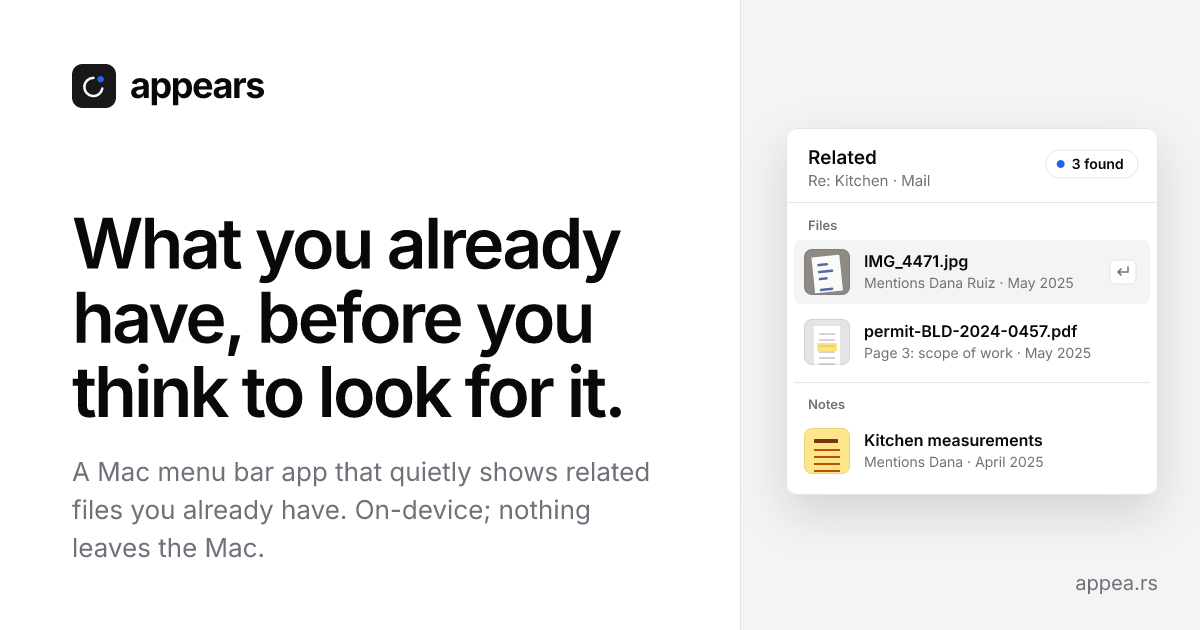
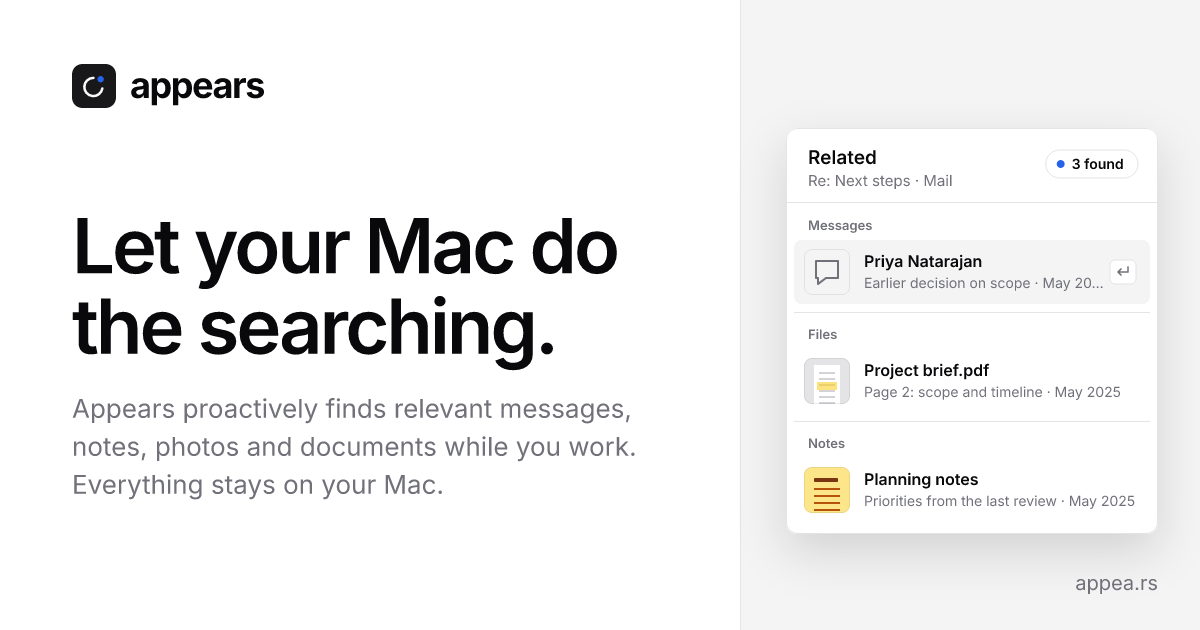
Rewrite landing page around proactive help

diff --git a/web/src/site.ts b/web/src/site.ts
@@ -6,6 +6,8 @@
 // Markdown version uses it as it is, and src/lib/inline.ts turns it into HTML
 // for the page.
 
+import landing from "../../demo/landing.json";
+
 export const SITE = "https://appea.rs";
 export const NAME = "Appears";
 
@@ -21,11 +23,11 @@ export const AUTHOR = {
 
 /** The app's schema.org disambiguatingDescription, also llms.txt's summary. Keep it verbatim. */
 export const SUMMARY =
-  "Open-source Mac menu bar app at appea.rs, made by Colin Armstrong, that notices what you're working on and shows related files you already have, such as old screenshots, photos and PDFs, using an on-device model; nothing leaves the computer.";
+  "Open-source Mac menu bar app at appea.rs, made by Colin Armstrong, that proactively finds messages, notes, photos and documents relevant to what you're working on, using an on-device model; nothing leaves the computer.";
 
-export const TITLE = "Appears: the files you forgot you had, when they matter";
+export const TITLE = "Appears: let your Mac do the searching";
 export const DESCRIPTION =
-  "Appears is an open-source Mac menu bar app that notices what you're working on and quietly shows related files you already have: old screenshots, photos, PDFs. It runs on the Mac, and nothing leaves it.";
+  "Appears proactively finds messages, notes, photos and documents relevant to what you're working on. Everything stays on your Mac.";
 
 export const OPERATING_SYSTEM = "macOS 26 or later";
 export const HARDWARE = "Mac with Apple silicon";
@@ -34,9 +36,9 @@ export const LICENSE_URL = "https://opensource.org/license/mit";
 
 // --- Hero --------------------------------------------------------------------------
 
-export const HEADLINE = "What you already have, before you think to look for it.";
+export const HEADLINE = "Let your Mac do the searching.";
 export const LEDE =
-  "Appears lives in your menu bar and follows along while you work. When you already have something that helps, like an old screenshot, a photo of a quote or a PDF from two years ago, it shows up. No searching, no typing.";
+  "Appears proactively finds messages, notes, photos and documents relevant to what you're working on, so you can keep working without stopping to search. Everything stays on your Mac.";
 /** Where the Download buttons go. The release script puts the latest build here. */
 export const DOWNLOAD_URL = `${SITE}/app.dmg`;
 export const DOWNLOAD_LABEL = "Download for Mac";
@@ -47,76 +49,78 @@ export const REQUIREMENTS = `${NOTE} Needs a ${HARDWARE} running ${OPERATING_SYS
 
 /** Under the hero mock. Everything in the mock is made up. */
 export const MOCK_CAPTION =
-  "You're replying to Dana about her kitchen. Appears finds the photo you took of her handwritten quote last year, the city permit (page 3 has the scope of work), and your measurements note. You didn't ask for any of it.";
+  "You're writing a plan. Appears finds an earlier decision in Messages, the original project brief and your notes from the last review. You can check them from the menu bar without typing a search.";
 export const MOCK_NOTE = "A made-up example.";
+export const MOCK_EMAIL = landing.email;
+export const MOCK_PANEL_CONTEXT = `${MOCK_EMAIL.subject} · Mail`;
 
 /** The three results in the hero mock, in the order the panel shows them, under their group labels. */
 export const MOCK_RESULTS = [
   {
-    kind: "photo",
-    group: "Files",
-    title: "IMG_4471.jpg",
-    reason: "Mentions Dana Ruiz · May 2025",
+    kind: "message",
+    group: "Messages",
+    title: landing.message.title,
+    reason: landing.message.reason,
   },
   {
     kind: "pdf",
     group: "Files",
-    title: "permit-BLD-2024-0457.pdf",
-    reason: "Page 3: scope of work · May 2025",
+    title: landing.document.title,
+    reason: landing.document.reason,
   },
   {
     kind: "note",
     group: "Notes",
-    title: "Kitchen measurements",
-    reason: "Mentions Dana · April 2025",
+    title: landing.note.title,
+    reason: landing.note.reason,
   },
 ] as const;
 
 // --- How it works ------------------------------------------------------------------
 
-export const HOW_HEADING = "It does the remembering, so you don't have to.";
+export const HOW_HEADING = "Keep working. Appears finds what's relevant.";
 /** Each card's `scene` names its illustration in src/components/Scene.astro. */
 export const HOW = [
   {
     scene: "notice",
-    title: "It follows what you're doing",
-    text: "Writing an email, reading a doc, planning a trip: Appears picks up on what's in front of you and looks for anything related. It doesn't keep a copy.",
+    title: "It starts with what you're doing",
+    text: "Writing an email, reading a document or making a plan: Appears uses the window in front of you to look for relevant information. It doesn't store what it reads.",
   },
   {
     scene: "gather",
-    title: "It knows your files, photos included",
-    text: "It understands what's inside your documents, notes, screenshots and photos, not just their names. So a photo of a handwritten quote can turn up next to the email about it.",
+    title: "It looks across your Mac",
+    text: "Appears searches the contents of messages, Apple Notes, documents, screenshots and photos. Useful details can turn up together, even when they're in different places.",
   },
   {
     scene: "forgot",
-    title: "It finds what you forgot",
-    text: "It favours things you haven't opened in a while. The note you wrote yesterday isn't news. The quote from two years ago is.",
+    title: "It brings back forgotten details",
+    text: "An older conversation or a note from last year can still help. Appears favours information you haven't opened in a while, so useful details don't stay buried.",
   },
   {
     scene: "reason",
     title: "It tells you why",
-    text: "Up to three things at a time, each with a short reason, like “mentions Dana Ruiz · page 3”. Open one, preview it, or drag it straight into what you're writing.",
+    text: "Up to three suggestions at a time, each with a short reason, such as the person mentioned or the matching page. Open one, preview it, or drag it into what you're writing.",
   },
 ] as const;
 
 // --- Quiet -------------------------------------------------------------------------
 
-export const QUIET_HEADING = "It never interrupts.";
+export const QUIET_HEADING = "Proactive help, without interruptions.";
 export const QUIET =
   "No notifications, no sounds, no pop-ups. When Appears finds something worth a look, the little ring in your menu bar gets a dot. Glance at it when you're ready, or press a shortcut to ask any time.";
 /** The menu bar glyph's states (drawn in mac/App/Sources/Glyph.swift; src/components/Glyph.astro on the site). */
 export const GLYPHS = [
   { state: "idle", label: "Nothing to show" },
-  { state: "indexing", label: "Getting to know your files" },
-  { state: "found", label: "Something's here" },
+  { state: "indexing", label: "Building your index" },
+  { state: "found", label: "Found something relevant" },
   { state: "paused", label: "Paused" },
   { state: "setup", label: "Needs setup" },
 ] as const;
 
 // --- Privacy -----------------------------------------------------------------------
 
-export const PRIVACY_HEADING = "Your stuff stays on your Mac.";
-export const PRIVACY_TEXT = "Appears sees a lot of what you do, so it's built to keep all of it to itself.";
+export const PRIVACY_HEADING = "Your information stays on your Mac.";
+export const PRIVACY_TEXT = "Your messages, notes, photos and documents are personal. Appears processes them on your Mac, without uploading them.";
 /** Each row's `art` names its illustration in src/components/PrivacyArt.astro. */
 export const PRIVACY = [
   {
@@ -150,7 +154,7 @@ export const FAQ = [
   {
     q: "How does it know what's related?",
     a: [
-      "It runs Google's EmbeddingGemma 2, a small open model, on your Mac. The model understands what text and pictures are about, so a photo of a handwritten quote matches an email about the same kitchen, even with no words in common.",
+      "It runs Google's EmbeddingGemma 2, a small open model, on your Mac. The model matches the meaning of what's on your screen with information in your messages, notes, documents and pictures, even when the wording is different.",
       "A plain text search catches names and numbers alongside it. Things you haven't opened in a while get a boost.",
     ],
   },
@@ -162,7 +166,7 @@ export const FAQ = [
     ],
   },
   {
-    q: "Which files does it look through?",
+    q: "Which sources does it look through?",
     a: [
       "Documents, PDFs, images and screenshots in your home folder, plus Apple Notes, Messages and their locally downloaded photos when you grant Full Disk Access. It skips system files, code projects and caches. Settings lets you include or exclude folders and turn Notes or Messages off.",
       "Mail, Photos, audio and video aren't supported yet.",
@@ -209,13 +213,13 @@ export const FAQ = [
 
 // --- Get it ------------------------------------------------------------------------
 
-export const GET_HEADING = "Try it on your Mac.";
-export const GET_TEXT = "Download the small app and get started. The on-device model downloads while you set up, then Appears gets to know your files. Get back to work; it'll speak up when it has something.";
+export const GET_HEADING = "Let Appears do the searching.";
+export const GET_TEXT = "Download Appears and choose which sources it can use. The on-device model downloads during setup. Once your sources are indexed, Appears can start finding useful information while you work.";
 
 // --- Share card --------------------------------------------------------------------
 
 export const CARD = {
-  summary: "A Mac menu bar app that quietly shows related files you already have. On-device; nothing leaves the Mac.",
+  summary: "Appears proactively finds relevant messages, notes, photos and documents while you work. Everything stays on your Mac.",
   footer: "appea.rs",
-  alt: "Appears: what you already have, before you think to look for it.",
+  alt: "Appears: let your Mac do the searching. Proactive suggestions from Messages, notes and documents.",
 };

diff --git a/web/src/lib/og/card.ts b/web/src/lib/og/card.ts
@@ -6,6 +6,7 @@
 
 import type { FontMetrics } from "./metrics";
 import { orbitMarkArtwork } from "../orbit";
+import { MOCK_PANEL_CONTEXT } from "../../site";
 
 export const WIDTH = 1200;
 export const HEIGHT = 630;
@@ -17,7 +18,7 @@ export interface CardFonts {
 }
 
 export interface Result {
-  kind: "photo" | "pdf" | "note";
+  kind: "photo" | "pdf" | "note" | "message";
   group: string;
   title: string;
   reason: string;
@@ -96,6 +97,9 @@ function thumb(kind: Result["kind"], x: number, y: number, s: number): string {
     parts.push(`<rect width="${s}" height="${s}" fill="#E4E4E7"/><rect x="10" y="7" width="${s - 20}" height="${s}" fill="#FFFFFF"/>`);
     for (let i = 0; i < 6; i++) parts.push(`<rect x="15" y="${14 + i * 6}" width="${s - 30}" height="2" fill="#D4D4D8"/>`);
     parts.push(`<rect x="13" y="24" width="${s - 26}" height="8" fill="#FACC15" opacity="0.55"/>`);
+  } else if (kind === "message") {
+    parts.push(`<rect width="${s}" height="${s}" fill="${C.muted}"/>`);
+    parts.push(`<path d="M12 12h22v17H22l-8 6v-6h-2z" fill="none" stroke="${C.mutedForeground}" stroke-width="2" stroke-linejoin="round"/>`);
   } else {
     parts.push(`<rect width="${s}" height="${s}" fill="#FDE68A"/><rect x="10" y="11" width="24" height="4" rx="1" fill="#78350F"/>`);
     for (let i = 0; i < 4; i++) parts.push(`<rect x="10" y="${21 + i * 7}" width="${s - 20}" height="2" fill="#B45309"/>`);
@@ -121,7 +125,7 @@ function panel(fonts: CardFonts, results: readonly Result[], x: number, y: numbe
 
   // Header: "Related", its source, and a "3 found" badge.
   out.push(`<text x="${x + 22}" y="${y + 36}" font-family="${FONT}" font-weight="600" font-size="19" fill="${C.foreground}">Related</text>`);
-  out.push(`<text x="${x + 22}" y="${y + 58}" font-family="${FONT}" font-size="15" fill="${C.mutedForeground}">Re: Kitchen · Mail</text>`);
+  out.push(`<text x="${x + 22}" y="${y + 58}" font-family="${FONT}" font-size="15" fill="${C.mutedForeground}">${esc(MOCK_PANEL_CONTEXT)}</text>`);
   const badge = `${results.length} found`;
   const bw = width(fonts.semibold, badge, 14) + 40;
   const bx = x + w - 20 - bw;

diff --git a/web/src/pages/llms.txt.ts b/web/src/pages/llms.txt.ts
@@ -11,7 +11,7 @@ const LLMS = `${[
   "# Appears",
   `> ${SUMMARY}`,
   LEDE,
-  "It reads the window in front of you through the macOS Accessibility API, only when something changes, keeps that text in memory and throws it away. It indexes files in the home folder and Apple Notes with Google's EmbeddingGemma 2, running on the Mac, plus full-text search, and ranks for what you haven't opened in a long time, not only for what's similar. It shows at most three things, each with a one-line reason; you can open one, Quick Look it, or drag it into what you're writing.",
+  "It reads the window in front of you through the macOS Accessibility API, only when something changes, keeps that text in memory and throws it away. It indexes documents, PDFs, images and screenshots in the home folder, plus Apple Notes, Messages and their locally downloaded photos when access is granted. Google's EmbeddingGemma 2 runs on the Mac alongside full-text search. Suggestions favour information you haven't opened in a while. It shows at most three suggestions, each with a one-line reason; you can open one, Quick Look it, or drag it into what you're writing. A separate search window lets you describe what you remember and search all enabled sources, including recent items.",
   QUIET,
   ["How it keeps everything on the Mac:", "", ...PRIVACY.map((row) => `- ${row.label}: ${row.text}`)].join("\n"),
   "In detail: reading files, running the model and holding the index happen in a separate engine process inside the App Sandbox with no network entitlement. The menu bar app, which reads the screen through the Accessibility API and so can't be sandboxed, contains no networking code, and a build check fails if it ever imports a networking API. The only log is which suggestions were opened or dismissed, without the text of what was on screen.",

diff --git a/web/src/styles/global.css b/web/src/styles/global.css
@@ -682,6 +682,12 @@ h1 {
   overflow: hidden;
   box-shadow: inset 0 0 0 1px rgb(9 9 11 / 0.08);
 }
+.thumb-message {
+  display: grid;
+  place-items: center;
+  color: var(--muted-foreground);
+  background: var(--muted);
+}
 /* A phone photo of a handwritten paper quote on a table. */
 .thumb-photo {
   background: linear-gradient(155deg, #a8a29e, #6b6560);
@@ -880,7 +886,7 @@ h1 {
 }
 
 /* The mock's animation (the script in Mock.astro). `is-animated` means the
-   script took over: the panel waits for the click, the glyph for "permit". */
+   script took over: the panel waits for the click, the glyph for "scope". */
 .mock {
   position: relative;
 }

diff --git a/demo/make-demo.py b/demo/make-demo.py
@@ -21,6 +21,35 @@ FILES = ROOT / "files"
 random.seed(7)
 ages: dict[str, float] = {}
 
+# Fictional planning example for the landing page, Markdown and share card.
+# Keep the message and source text here so the site never uses real information.
+LANDING = {
+    "email": {
+        "subject": "Re: Next steps",
+        "to": "Priya Natarajan",
+        "greeting": "Hi Priya,",
+        "body": "I'm putting together a plan for the next phase. Let's revisit the scope and timeline we agreed on before we add anything new.",
+        "quotedHeader": "On Oct 13, 2026, at 4:18 PM, Priya Natarajan wrote:",
+        "quotedBody": "Could you send over a plan for the next phase? It would help to have the priorities and timing in one place.",
+    },
+    "message": {
+        "title": "Priya Natarajan",
+        "reason": "Earlier decision on scope · May 2025",
+        "text": "Let's keep the scope focused on the essentials and review progress at the end of the month before adding anything new.",
+    },
+    "document": {
+        "title": "Project brief.pdf",
+        "reason": "Page 2: scope and timeline · May 2025",
+        "text": "Scope and timeline: finish the essential work first. Review progress at the end of the month before planning the next phase.",
+    },
+    "note": {
+        "title": "Planning notes",
+        "reason": "Priorities from the last review · May 2025",
+        "text": "Keep the next phase focused. Revisit the original scope and timeline with Priya before adding new priorities.",
+    },
+}
+(ROOT / "landing.json").write_text(json.dumps(LANDING, indent=2) + "\n")
+
 
 def font(names, size):
     for name in names:
